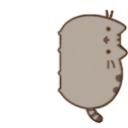
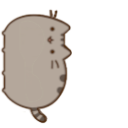
Added Shimeji movement for Walking and Climbing actions. Todo: align Shimeji to face the direction it is moving to.

diff --git a/src/Shimeji.js b/src/Shimeji.js
@@ -12,8 +12,12 @@ const generateTimeOutDuration = () => {
 }
 
 // generate a random shimeji action id
-const generateActionID = () => {
-    return Math.floor( Math.random() * (3 + 1) );
+const generateActionID = (id=0) => {
+    let result = Math.floor( Math.random() * (constants.MAX_ACTION_ID - constants.MIN_ACTION_ID + 1) ) + constants.MIN_ACTION_ID;
+    while (result === id) {
+        result = Math.floor( Math.random() * (constants.MAX_ACTION_ID - constants.MIN_ACTION_ID + 1) ) + constants.MIN_ACTION_ID;
+    }
+    return result;
 }
 
 // util function to mimic sleep()
@@ -45,7 +49,7 @@ const Shimeji = ({
     const [action, setAction, actionRef] = useState(constants.ACTIONS.standing);
     
     // track action animation timeout
-    const [actionTimeout, setActionTimeout, actionTimeoutRef] = useState(setTimeout(()=>nextAction, generateTimeOutDuration()));
+    const [actionTimeout, setActionTimeout, actionTimeoutRef] = useState(null);
     // set if animation is paused (false) or played (true)
     const [play, setPlay, playRef] = useState(false);
     // set if animation is restarted from first frame
@@ -58,6 +62,10 @@ const Shimeji = ({
     const [actionIDBeforeDrag, setActionIDBeforeDrag, actionIDBeforeDragRef] = useState(constants.ACTIONS.standing);
     // track if shimeji is being dragged
     const [isDragged, setIsDragged, isDraggedRef] = useState(false);
+    // track shimeji move direction for walking or climbing actions, see config for list of available options
+    const [moveDirection, setMoveDirection, moveDirectionRef] = useState(null);
+    // set the rotation of the Shimeji which depends on the move direction and attached wall
+    const [rotation, setRotation, rotationRef] = useState(null);
 
     
     // right click menu state
@@ -125,9 +133,9 @@ const Shimeji = ({
 
     // handle landing animation
     const land = async () => {
-        await sleep(constants.FPS_INTERVAL * 2);
+        await sleep(constants.FPS_INTERVAL_FALLING * 2);
         setAction(constants.ACTIONS.landing);
-        await sleep(constants.FPS_INTERVAL * 5);
+        await sleep(constants.FPS_INTERVAL_FALLING * 5);
     }
 
     // handle falling animation
@@ -138,7 +146,7 @@ const Shimeji = ({
             if ( (currY + constants.HEIGHT) > window?.innerHeight) {
                 currY = window?.innerHeight - constants.HEIGHT;
             }
-            await sleep(constants.FPS_INTERVAL);
+            await sleep(constants.FPS_INTERVAL_FALLING);
             setPosition({
                 x: positionRef.current.x,
                 y: currY,
@@ -159,35 +167,133 @@ const Shimeji = ({
             const elapsedPauseTime = Date.now() - pauseStartTimeRef.current;
             const remainTime = Math.abs(endTimeRef.current - Date.now()) + elapsedPauseTime;
             setPauseStartTime(Date.now());
-            setActionTimeout(setTimeout(()=>nextAction, remainTime));
+            setActionTimeout(setTimeout(() => {
+                nextAction();
+            }, remainTime));
             setAction(actionIDBeforeDragRef.current);
             setActionIDBeforeDrag(null);
             setPlay(true);
         }
     }
 
-    const nextAction = () => {
+    const animate = async () => {
+        if (!playRef.current) {
+            //console.log('cancelled...');
+            return;
+        }
+        //console.log('animate... ', actionRef.current);
+        let newPosition = moveDirectionRef.current;
+
+        if(actionRef.current === constants.ACTIONS.walking) {
+            //console.log('walking... ');
+            newPosition += positionRef.current.x;
+            // if not hitting wall
+            if (newPosition > 0 && newPosition + constants.WIDTH < window?.innerWidth) {
+                //console.log('moving... ', positionRef.current.x, ' -> ', newPosition);
+                setPosition({
+                    ...position,
+                    x: newPosition,
+                    y: positionRef.current.y,
+                });
+                alignShimeji();
+                await sleep(constants.FPS_INTERVAL_FALLING);
+                return;
+            }
+            //console.log('hit wall... ', newPosition);
+            
+            // if 0 = hit left wall else right wall
+            newPosition = (newPosition <= 0)? 0 : window?.innerWidth - constants.WIDTH;
+            setPosition({
+                ...position,
+                x: newPosition,
+                y: positionRef.current.y,
+            });
+            alignShimeji();
+            await sleep(constants.FPS_INTERVAL_FALLING);
+            
+            // change action to climbing
+            setAction(constants.ACTIONS.climbing);
+
+            // move downward if in the sky, else move upward if on the ground
+            setMoveDirection((positionRef.current.y === 0)? constants.MOVE_PIXEL_POS : constants.MOVE_PIXEL_NEG);
+            return;
+        } else if (actionRef.current === constants.ACTIONS.climbing) {
+            //console.log('climbing... ');
+            newPosition += positionRef.current.y;
+            // if not hitting ground or sky
+            if (newPosition > 0 && newPosition + constants.HEIGHT < window?.innerHeight) {
+                //console.log('moving... ', positionRef.current.x, ' -> ', newPosition);
+                setPosition({
+                    ...position,
+                    x: positionRef.current.x,
+                    y: newPosition,
+                });
+                alignShimeji();
+                await sleep(constants.FPS_INTERVAL_FALLING);
+                return;
+            }
+            //console.log('hit sky/gnd... ', newPosition);
+
+            // if 0 = hit sky else ground
+            newPosition = (newPosition <= 0)? 0 : window?.innerHeight - constants.HEIGHT;
+            setPosition({
+                ...position,
+                x: positionRef.current.x,
+                y: newPosition,
+            });
+            alignShimeji();
+            await sleep(constants.FPS_INTERVAL_FALLING);
+
+            // change action to walking
+            setAction(constants.ACTIONS.walking);
+
+            // move rightward if on left wall, else move leftward if on right wall
+            setMoveDirection((positionRef.current.x === 0)? constants.MOVE_PIXEL_POS : constants.MOVE_PIXEL_NEG);
+            return;
+        }
+    };
+
+    const nextAction = async () => {
+        if (Date.now() < endTimeRef.current) return;
         const newTimeout = generateTimeOutDuration();
-        console.log(newTimeout);
+        clearTimeout(actionTimeoutRef.current);
+        // stop current animation
+        setPlay(false);
+        setMoveDirection(null);
         // set new duration for next action
-        setActionTimeout(setTimeout(()=>nextAction, newTimeout));
+        setActionTimeout(setTimeout(() => {
+            nextAction();
+        }, newTimeout));
         // set action animation
-        setAction(generateActionID());
+        //setAction(generateActionID(actionRef.current));
+        setAction(constants.ACTIONS.walking);
         // start animation from frame 1
         setRestart(true);
         // start animation for shimeji frame component
         setPlay(true);
+        await sleep(constants.TIME_SECOND_IN_MS);
         // record start time for new action
-        setEndTime(Date.now() + newTimeout)
+        setEndTime(Date.now() + newTimeout);
+        // if walking or climbing, set move direction
+        setMoveDirection((Math.random()>0.5)? constants.MOVE_PIXEL_NEG : constants.MOVE_PIXEL_POS);
+        let startTime = Date.now();
+        let currTime = null;
+        while (playRef.current && moveDirectionRef.current!==null && !isDraggedRef.current) {
+            currTime = Date.now();
+            if (currTime-startTime >= constants.TIME_SECOND_IN_MS) {
+                startTime = Date.now();
+                await animate();
+            }
+        }
     }
 
+    // move shimeji on windows resize
     const handleWindowResize = useCallback((e) => {
         if (shimejiRef.current) {
             let x = positionRef.current.x;
             if (shimejiRef.current.state.x + constants.WIDTH > e.currentTarget.innerWidth)
                 x = e.currentTarget.innerWidth - constants.WIDTH;
             let y = e.currentTarget.innerHeight - constants.HEIGHT;
-            console.log(e.currentTarget.innerWidth, ' ', e.currentTarget.innerHeight);
             setPosition({
                 ...position,
                 x: x,
@@ -225,8 +331,11 @@ const Shimeji = ({
         e.stopPropagation();
         if (playRef.current && !isDraggedRef.current) {
             setPlay(false);
+            if (actionTimeoutRef.current) {
+                clearTimeout(actionTimeoutRef.current);
+                setActionTimeout(null);
+            }
             setActionIDBeforeDrag(actionRef.current);
-            console.log('dragStart => save ', actionRef.current);
             setIsDragged(true);
             setPauseStartTime(Date.now());
             setAction(constants.ACTIONS.dragging);
@@ -254,6 +363,29 @@ const Shimeji = ({
         fall();
     };
 
+    // align Shimeji to appropriate rotation to face the direction it is currently moving to
+    const alignShimeji = () => {
+        if (actionRef.current===constants.ACTIONS.walking) {
+            let result = '';
+            if (positionRef.current.y === 0)
+                result = 'rotateX(180deg)';
+            if (moveDirectionRef.current > 0) {
+                console.log('should face right');
+                result += ' rotateY(180deg)';
+            }
+            setRotation(result);
+        }
+        if (actionRef.current===constants.ACTIONS.climbing) {
+            let result = '';
+            if (positionRef.current.x !== 0)
+                result = 'rotateY(180deg)';
+            if (moveDirectionRef.current > 0)
+                result += ' rotateX(180deg)';
+            setRotation(result);
+        }
+        return '';
+    };
+
     // render shimeji on screen on topmost of <body>
     return (
         <Draggable
@@ -267,7 +399,15 @@ const Shimeji = ({
         >
             <div
                 className='shimeji-container'
-                style={{ width: constants.WIDTH, height: constants.HEIGHT, left: 0, top: 0, visibility: showShimeji? 'visible':'hidden', opacity: showShimeji? '1':'0' }}
+                style={{
+                    width: constants.WIDTH,
+                    height: constants.HEIGHT,
+                    left: 0,
+                    top: 0,
+                    visibility: showShimeji? 'visible':'hidden',
+                    opacity: showShimeji? '1':'0',
+                    transform: rotationRef.current
+                }}
                 onContextMenu={(e) => handleRightClick(e)}    // invoke right click context menu
             >
 
@@ -283,7 +423,7 @@ const Shimeji = ({
                     />
                 ))}
 
-                <ContextMenu               // right click context menu component in ContextMenu.js
+                <ContextMenu                        // right click context menu component in ContextMenu.js
                     contextMenuRef={contextMenuRef}
                     isToggled={menu.toggled}        // check if context menu is shown
                     positionY={menu.position.y}     // set top position of context menu

diff --git a/src/components/ShimejiFrame.js b/src/components/ShimejiFrame.js
@@ -1,6 +1,7 @@
-import { React, useEffect, useState } from 'react';
+import { React, useCallback, useEffect } from 'react';
+import useState from 'react-usestateref';
 import * as constants from '../config';
-import { ACTIONS_SOURCES, ACTIONS_SOURCES_IMGS } from './ShimejiSources';
+import { ACTIONS_SOURCES } from './ShimejiSources';
 import { UseFrameLoop } from './UseFrameLoop';
 
 // util function to mimic sleep()
@@ -17,28 +18,29 @@ const ShimejiFrame = ({
     currentAction,
 }) => {
     // track current frame of animation
-    const [currFrame, setFrame] = useState(0);
+    const [currFrame, setFrame, currFrameRef] = useState(0);
 
-    const FRAME_COUNT = ACTIONS_SOURCES[actionName].length;
+    // identify the number of frames to loop back to first frame in cycle
+    const FRAME_COUNT = ACTIONS_SOURCES[actionName].length; // trivial, no need of useMemo or useCached here
 
+    // loop over each frame at one second interval
     const loopFrame = async () => {
+        if (!play) return;
         await sleep(constants.TIME_SECOND_IN_MS);
-        setFrame( (currFrame + 1) % FRAME_COUNT);
+        setFrame( (currFrameRef.current + 1) % FRAME_COUNT);
         loopFrame();
     }
+    
+    const handlePlay = useCallback(() => {
+        if (play && currentAction === actionID) {
+            loopFrame();
+        }
+    }, [play, currentAction]);
 
     // play animation with timeout to change to next frame
-    useEffect(() => {
-        const handlePlay = () => {
-            if (play && currentAction === actionID) {
-                return () => {
-                    loopFrame();
-                };
-            }
-        };
-        
-        return () => handlePlay;
-    }, [play, currentAction]);
+    // useEffect(() => {
+    //     return () => handlePlay;
+    // }, [play, currentAction]);
 
     useEffect(() => {
         if (reset) {

diff --git a/src/config.js b/src/config.js
@@ -6,15 +6,19 @@ export const HEIGHT = 100;
 export const MIN_DURATION_MS = 10000;
 export const MAX_DURATION_MS = 20000;
 
-// Default frame rate of animation
-export const FRAME_RATE = 25;  // must be lesser than 1000, 25 is recommended
-
 export const TIME_SECOND_IN_MS = 1000;
 
-// Default FPS Interval in ms
-export const FPS_INTERVAL = TIME_SECOND_IN_MS / FRAME_RATE;
+// Default frame rate of falling animation
+export const FRAME_RATE_FALLING = 25;  // must be lesser than 1000, 25 is recommended
 
-export const FPS_INTERVAL_FRAME = TIME_SECOND_IN_MS / 2;
+// Default FPS Interval in ms for falling animation
+export const FPS_INTERVAL_FALLING = TIME_SECOND_IN_MS / FRAME_RATE_FALLING;
+
+// Default frame rate of action animation
+export const FRAME_RATE_ACTION = 1;  // 1 is recommended
+
+// Default FPS Interval in ms for action animation
+export const FPS_INTERVAL_ACTION = TIME_SECOND_IN_MS / FRAME_RATE_ACTION;
 
 // Default gravity falling speed (px), 30 is recommended
 export const GRAVITY_PIXEL = 30;
@@ -31,3 +35,16 @@ export const ACTIONS = {
     'falling'  : 6,
     'landing'  : 7,
 };
+
+// Default range of non-event-based action
+// event-based actions are only activated based on triggered event such as dragging the shimeji or letting shimeji fall from sky
+export const MIN_ACTION_ID = 0;
+export const MAX_ACTION_ID = 3;
+
+// Move direction for walking and climbing actions
+export const WALK_DIRECTION = 0;    // move in x axis
+export const CLIMB_DIRECTION = 1;   // move in y axis
+
+// Default moving speed in pixel
+export const MOVE_PIXEL_POS = 10;   // 10 is recommended
+export const MOVE_PIXEL_NEG = -10;   // 10 is recommended

diff --git a/src/components/UseFrameLoop.js b/src/components/UseFrameLoop.js
@@ -1,5 +1,5 @@
 import { useEffect, useRef } from "react";
-import { FPS_INTERVAL } from "../config";
+import { FPS_INTERVAL_ACTION } from "../config";
 
 export const UseFrameLoop = (callback) => {
     const requestID = useRef();
@@ -8,7 +8,7 @@ export const UseFrameLoop = (callback) => {
     const loop = time => {
         if (previousTime.current !== undefined) {
             const deltaTime = time - previousTime.current;
-            if (deltaTime >= FPS_INTERVAL)
+            if (deltaTime >= FPS_INTERVAL_ACTION)
                 callback(time, deltaTime);
         }
 
